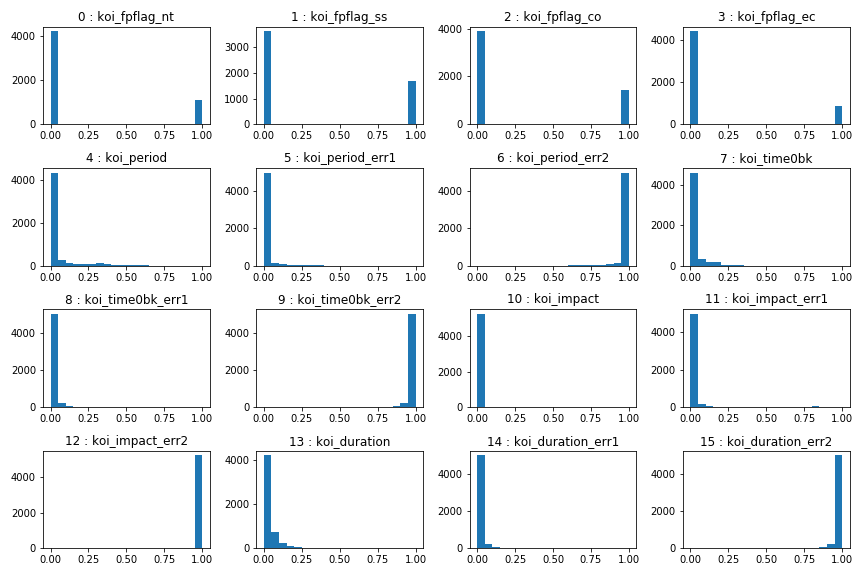
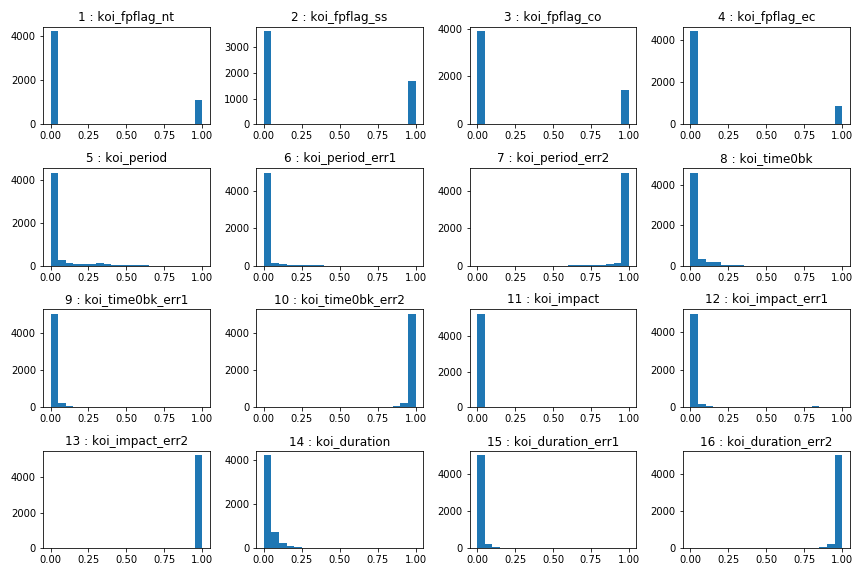
Update readme

diff --git a/README.md b/README.md
@@ -14,7 +14,7 @@ For training purposes, all rows from the raw data assigned "CANDIDATE" have been
 
 ### Preprocess the Data
 
-In file The mean and standard devation was calculated for each independent field by koi_disposition ("CONFIRMED", "FALSE POSITIVE"). A histrogram for each independent variables was generated. See jupyter notebook (https://github.com/chrisholt0222/machine-learning-challenge/blob/master/initial_models/model_logreg.ipynb).
+The mean and standard devation was calculated for each independent field by koi_disposition ("CONFIRMED", "FALSE POSITIVE"). A histrogram for each independent variables was generated. Based on the review of the mean, the standard devation, and the histograms the following variables koi_period_err2, koi_time0bk_err2, koi_duration_err2, koi_depth_err2 were removed. See Jupyter Notebook (https://github.com/chrisholt0222/machine-learning-challenge/blob/master/initial_models/model_logreg.ipynb).
 
 #### Fields 1 - 16:
 ![Group1.jpg](initial_models/Images/feature_hist_0_15.png)
@@ -23,18 +23,25 @@ In file The mean and standard devation was calculated for each independent field
 ![Group2.jpg](initial_models/Images/feature_hist_16_31.png)
 
 #### Fields 33 - 40:
-![Group3.jpg](initial_models/Images/feature_hist_32_40.png)
+![Group3.jpg](initial_models/Images/feature_hist_32_39.png)
 
-The following fields were dropped: koi_period_err2, koi_time0bk_err2, koi_duration_err2, koi_depth_err2.
 
 The following was applied to the data before use in each model:
 * NAs were removed.
 * Drop all rows where koi_disposition = "CANDIDATE".
 * Drop the fields: koi_period_err2, koi_time0bk_err2, koi_duration_err2, koi_depth_err2.
-* Use `MinMaxScaler` to scale the numerical data.
-* Separate the data into training and testing data.
+* The data was separated into training and testing data using the `train_test_split` function.
+* The `MinMaxScaler` function is used to scale the numerical independent data.
+* The `LabelEncoder` and `to_categorical` were used to cattegorize the dependend variable.
 
-Perform feature selection and remove unnecessary features.
+### Feature Selection - RFE
+
+The RFE function (recursive feature elimination) was used with the LogisticRegression model to eliminate unnecesasry features (independent variables). Features ranked below 1 where removed from future models. 
+
+Field removed:
+* koi_period_err1, koi_time0bk, koi_impact, koi_impact_err1, koi_impact_err2, koi_duration,
+* koi_depth_err1, koi_prad, koi_prad_err1, koi_prad_err2, koi_insol, koi_insol_err1, 
+* koi_insol_err2, koi_srad, koi_srad_err1, koi_srad_err2, dec, koi_kepmag
 
 ### Tune Model Parameters
 
@@ -43,6 +50,6 @@ Perform feature selection and remove unnecessary features.
 
 ### Reporting
 
-* Create a README that reports a comparison of each model's performance as well as a summary about your findings and any assumptions you can make based on your model (is your model good enough to predict new exoplanets? Why or why not? What would make your model be better at predicting new exoplanets?)
+* Create a README that reports a comparison of each models performance as well as a summary about your findings and any assumptions you can make based on your model (is your model good enough to predict new exoplanets? Why or why not? What would make your model be better at predicting new exoplanets?)
 
 
